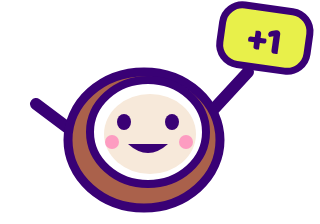
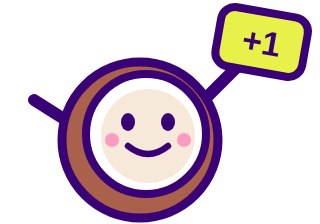
Noix de coco rondes dans toutes les animations et l'email « nouveau passager »
Claude-Session: https://claude.ai/code/session_014fXZMBDndRzzEQDnVjWBge

Changed region(s): [[0.125, 0.0, 1.0, 1.0], [0.75, 0.125, 0.875, 0.25], [0.0625, 0.4062, 0.1562, 0.5]]

diff --git a/src/components/Delight.tsx b/src/components/Delight.tsx
@@ -37,9 +37,9 @@ export function CheerCoconut() {
     <svg className="cheer" viewBox="0 0 120 96" width="120" height="96" aria-hidden="true">
       <path className="cheer__arm cheer__arm--l" d="M28 56 L8 40" stroke="#390175" strokeWidth="6" strokeLinecap="round" />
       <path className="cheer__arm cheer__arm--r" d="M92 56 L112 40" stroke="#390175" strokeWidth="6" strokeLinecap="round" />
-      <ellipse cx="60" cy="58" rx="36" ry="32" fill="#aa614b" stroke="#390175" strokeWidth="4.5" />
-      <ellipse cx="62" cy="54" rx="28" ry="25" fill="#fff" stroke="#390175" strokeWidth="4" />
-      <ellipse cx="62" cy="55" rx="22" ry="19" fill="#f7e9da" />
+      <ellipse cx="60" cy="58" rx="34" ry="34" fill="#aa614b" stroke="#390175" strokeWidth="4.5" />
+      <ellipse cx="62" cy="55" rx="26.5" ry="26.5" fill="#fff" stroke="#390175" strokeWidth="4" />
+      <ellipse cx="62" cy="56" rx="21" ry="21" fill="#f7e9da" />
       <path d="M47 50q4-5 8 0" fill="none" stroke="#390175" strokeWidth="3.5" strokeLinecap="round" />
       <ellipse className="cheer__wink" cx="73" cy="49" rx="3.5" ry="4" fill="#390175" />
       <path d="M52 60q10 9 20 0" fill="#390175" />
@@ -105,10 +105,10 @@ export function SleepyCoconut() {
       <ellipse cx="104" cy="138" rx="56" ry="7" fill="#390175" opacity=".12" />
       <g transform="rotate(-14 104 100)">
         <g className="sleepy__breath">
-          <ellipse cx="104" cy="100" rx="48" ry="38" fill="#aa614b" stroke="#390175" strokeWidth="5" />
+          <ellipse cx="104" cy="96" rx="43" ry="43" fill="#aa614b" stroke="#390175" strokeWidth="5" />
           <path d="M66 92q-2 12 5 22M73 120q7 7 16 9" fill="none" stroke="#7f3d2e" strokeWidth="2.5" strokeLinecap="round" />
-          <ellipse cx="108" cy="95" rx="37" ry="30" fill="#fff" stroke="#390175" strokeWidth="4.5" />
-          <ellipse cx="109" cy="96" rx="30" ry="24" fill="#f7e9da" />
+          <ellipse cx="108" cy="93" rx="33.5" ry="33.5" fill="#fff" stroke="#390175" strokeWidth="4.5" />
+          <ellipse cx="109" cy="94" rx="27" ry="27" fill="#f7e9da" />
           <path
             d="M84 88h20a6 6 0 0 1-6 9h-8a6 6 0 0 1-6-9zM112 88h20a6 6 0 0 1-6 9h-8a6 6 0 0 1-6-9zM104 89h8"
             fill="#1b1b1b"
@@ -130,9 +130,9 @@ export function SleepyCoconut() {
 function CocoHalf({ cx, cy, mood }: { cx: number; cy: number; mood: 'happy' | 'joy' | 'sad' }) {
   return (
     <g>
-      <ellipse cx={cx} cy={cy} rx="42" ry="36" fill="#aa614b" stroke="#390175" strokeWidth="4.5" />
-      <ellipse cx={cx + 3} cy={cy - 4} rx="32" ry="28" fill="#fff" stroke="#390175" strokeWidth="4" />
-      <ellipse cx={cx + 4} cy={cy - 3} rx="25" ry="22" fill="#f7e9da" />
+      <ellipse cx={cx} cy={cy} rx="39" ry="39" fill="#aa614b" stroke="#390175" strokeWidth="4.5" />
+      <ellipse cx={cx + 3} cy={cy - 3} rx="30" ry="30" fill="#fff" stroke="#390175" strokeWidth="4" />
+      <ellipse cx={cx + 4} cy={cy - 2} rx="23.5" ry="23.5" fill="#f7e9da" />
       {mood === 'happy' && (
         <>
           <ellipse cx={cx - 6} cy={cy - 9} rx="3.5" ry="4.5" fill="#390175" />

diff --git a/src/pages/NotFoundPage.tsx b/src/pages/NotFoundPage.tsx
@@ -15,10 +15,10 @@ function LostCoconut() {
         <circle cx="62" cy="50" r="4" fill="#5b3cc4" />
       </g>
       <g className="lost__bob">
-        <ellipse cx="110" cy="108" rx="54" ry="46" fill="#aa614b" stroke="#390175" strokeWidth="5" />
+        <ellipse cx="110" cy="106" rx="50" ry="50" fill="#aa614b" stroke="#390175" strokeWidth="5" />
         <path d="M70 100q-2 14 6 26M78 132q8 8 18 10" fill="none" stroke="#7f3d2e" strokeWidth="2.5" strokeLinecap="round" />
-        <ellipse cx="114" cy="100" rx="42" ry="36" fill="#fff" stroke="#390175" strokeWidth="4.5" />
-        <ellipse cx="115" cy="101" rx="34" ry="28" fill="#f7e9da" />
+        <ellipse cx="114" cy="100" rx="39" ry="39" fill="#fff" stroke="#390175" strokeWidth="4.5" />
+        <ellipse cx="115" cy="101" rx="31" ry="31" fill="#f7e9da" />
         <path d="M95 88l10 10m0-10l-10 10M125 88l10 10m0-10l-10 10" stroke="#390175" strokeWidth="4" strokeLinecap="round" />
         <ellipse cx="115" cy="114" rx="7" ry="8" fill="#390175" />
         <circle cx="93" cy="108" r="5" fill="#ff7ab6" opacity=".7" />
